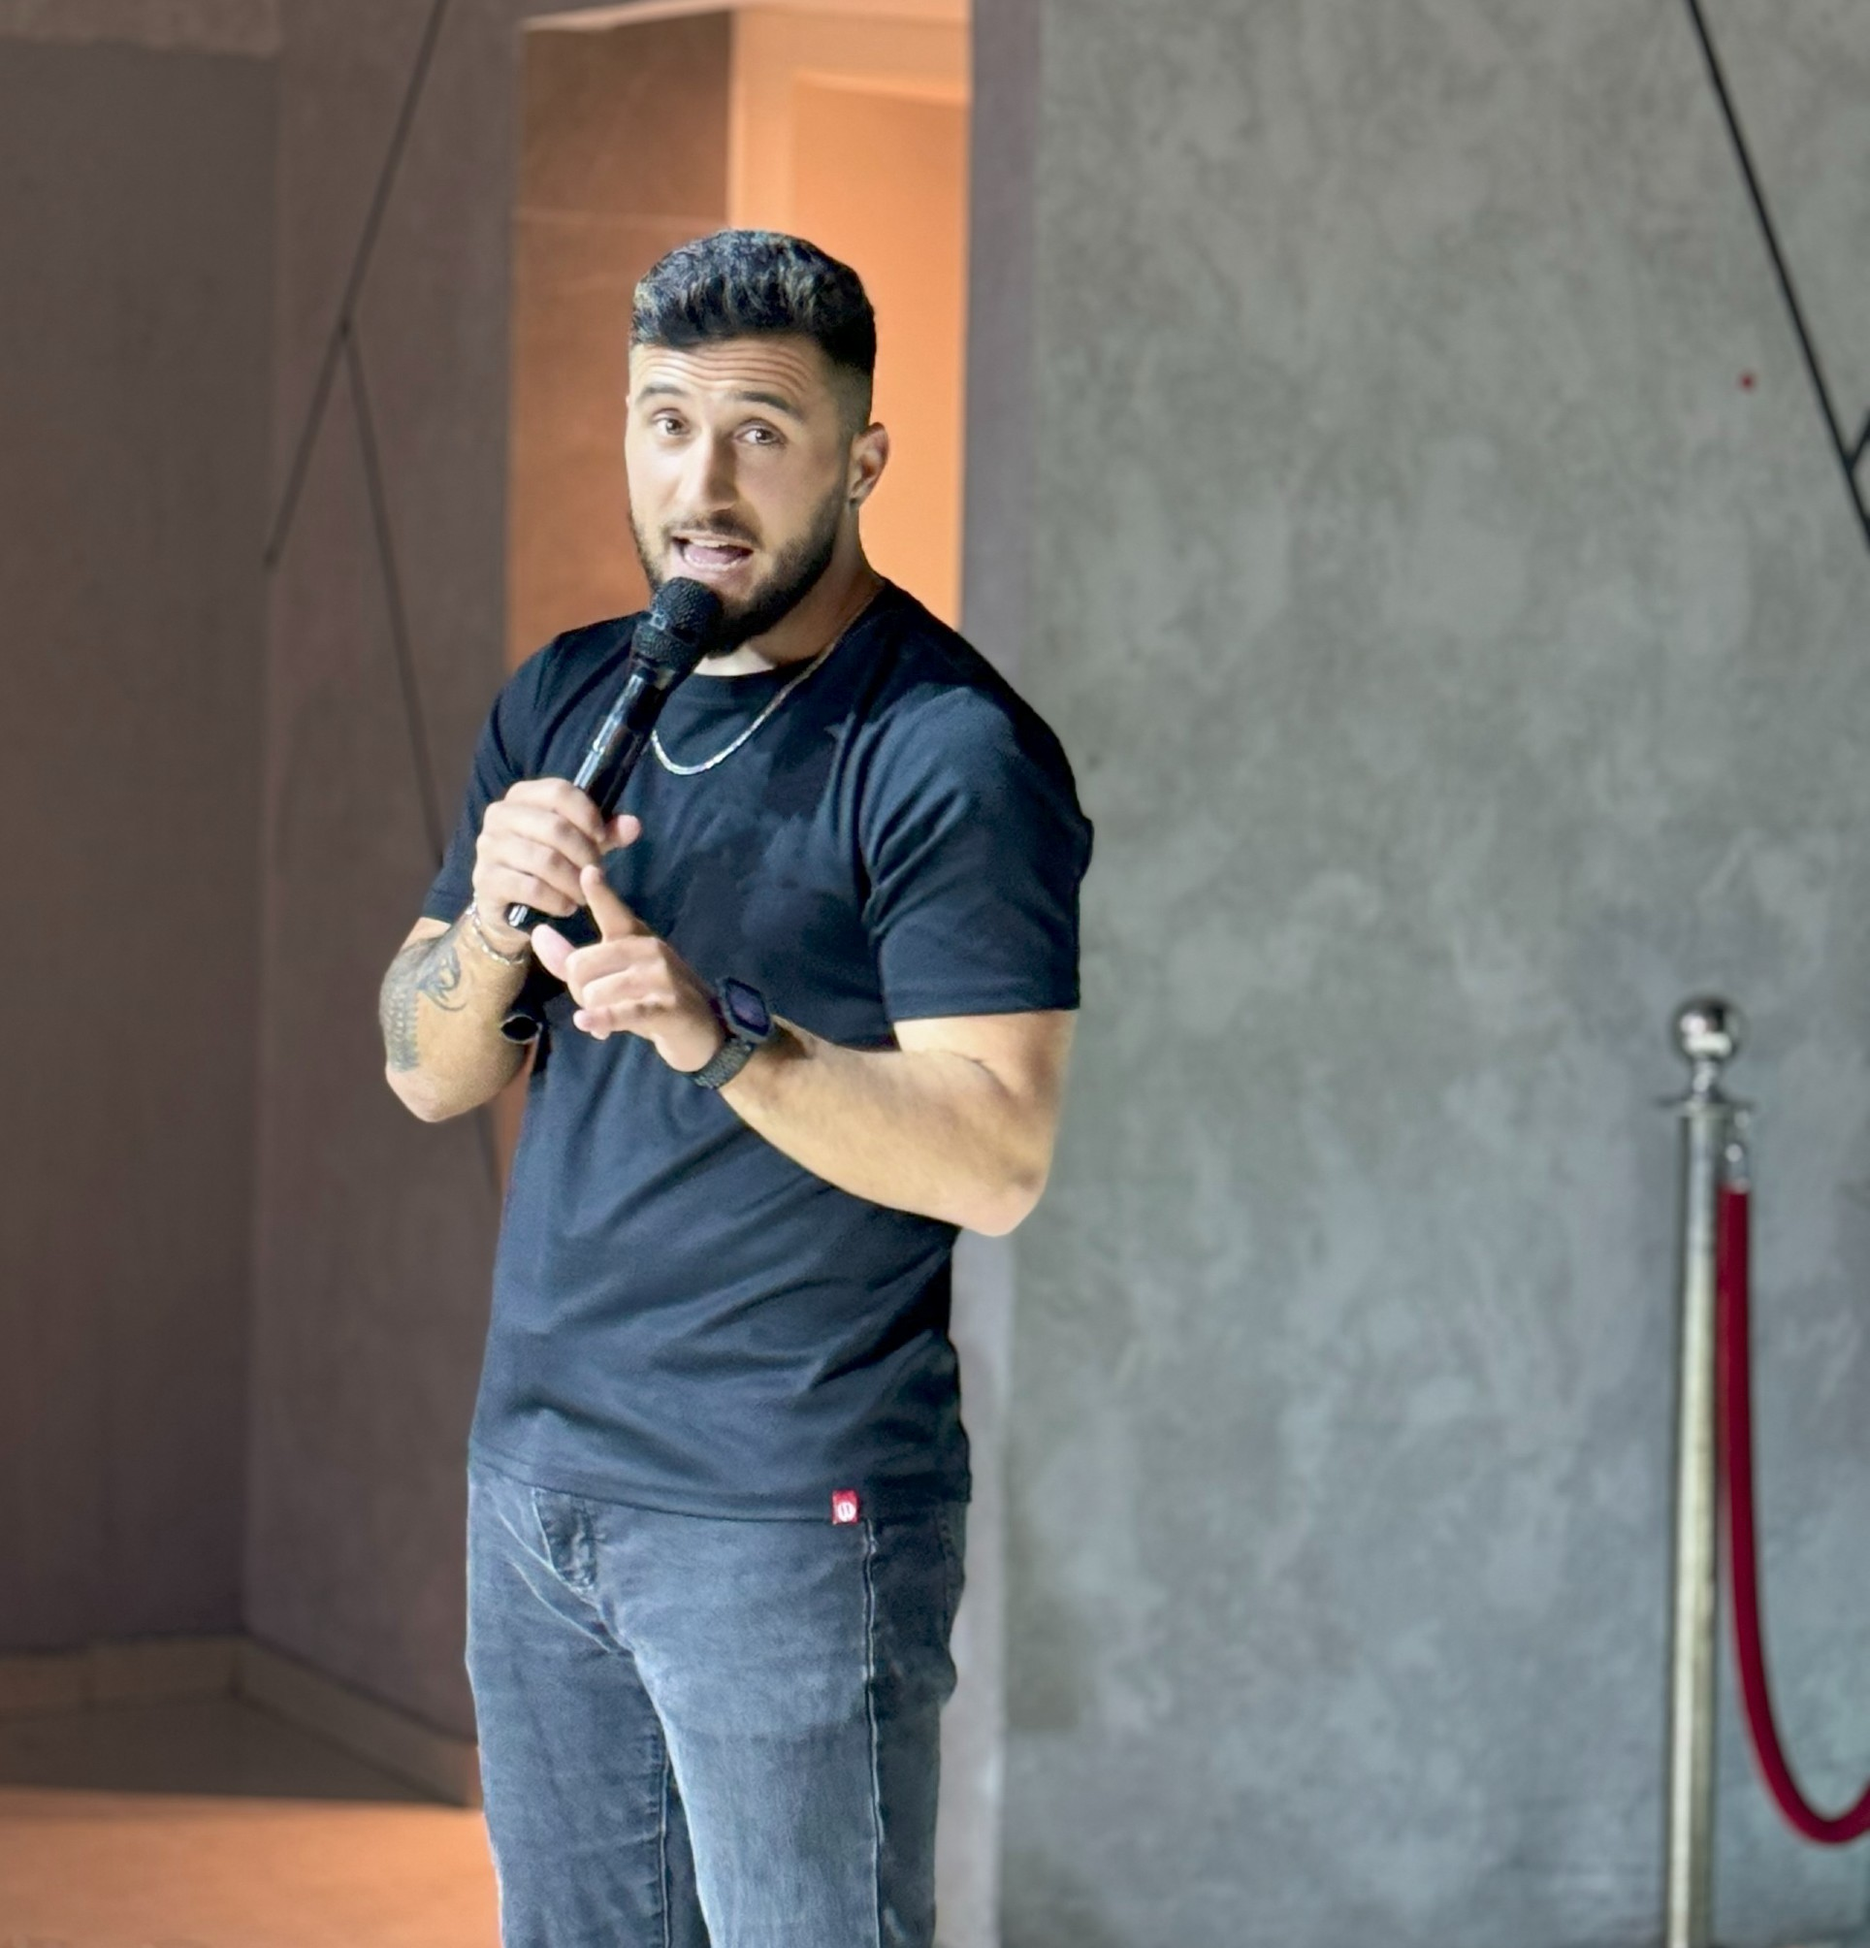
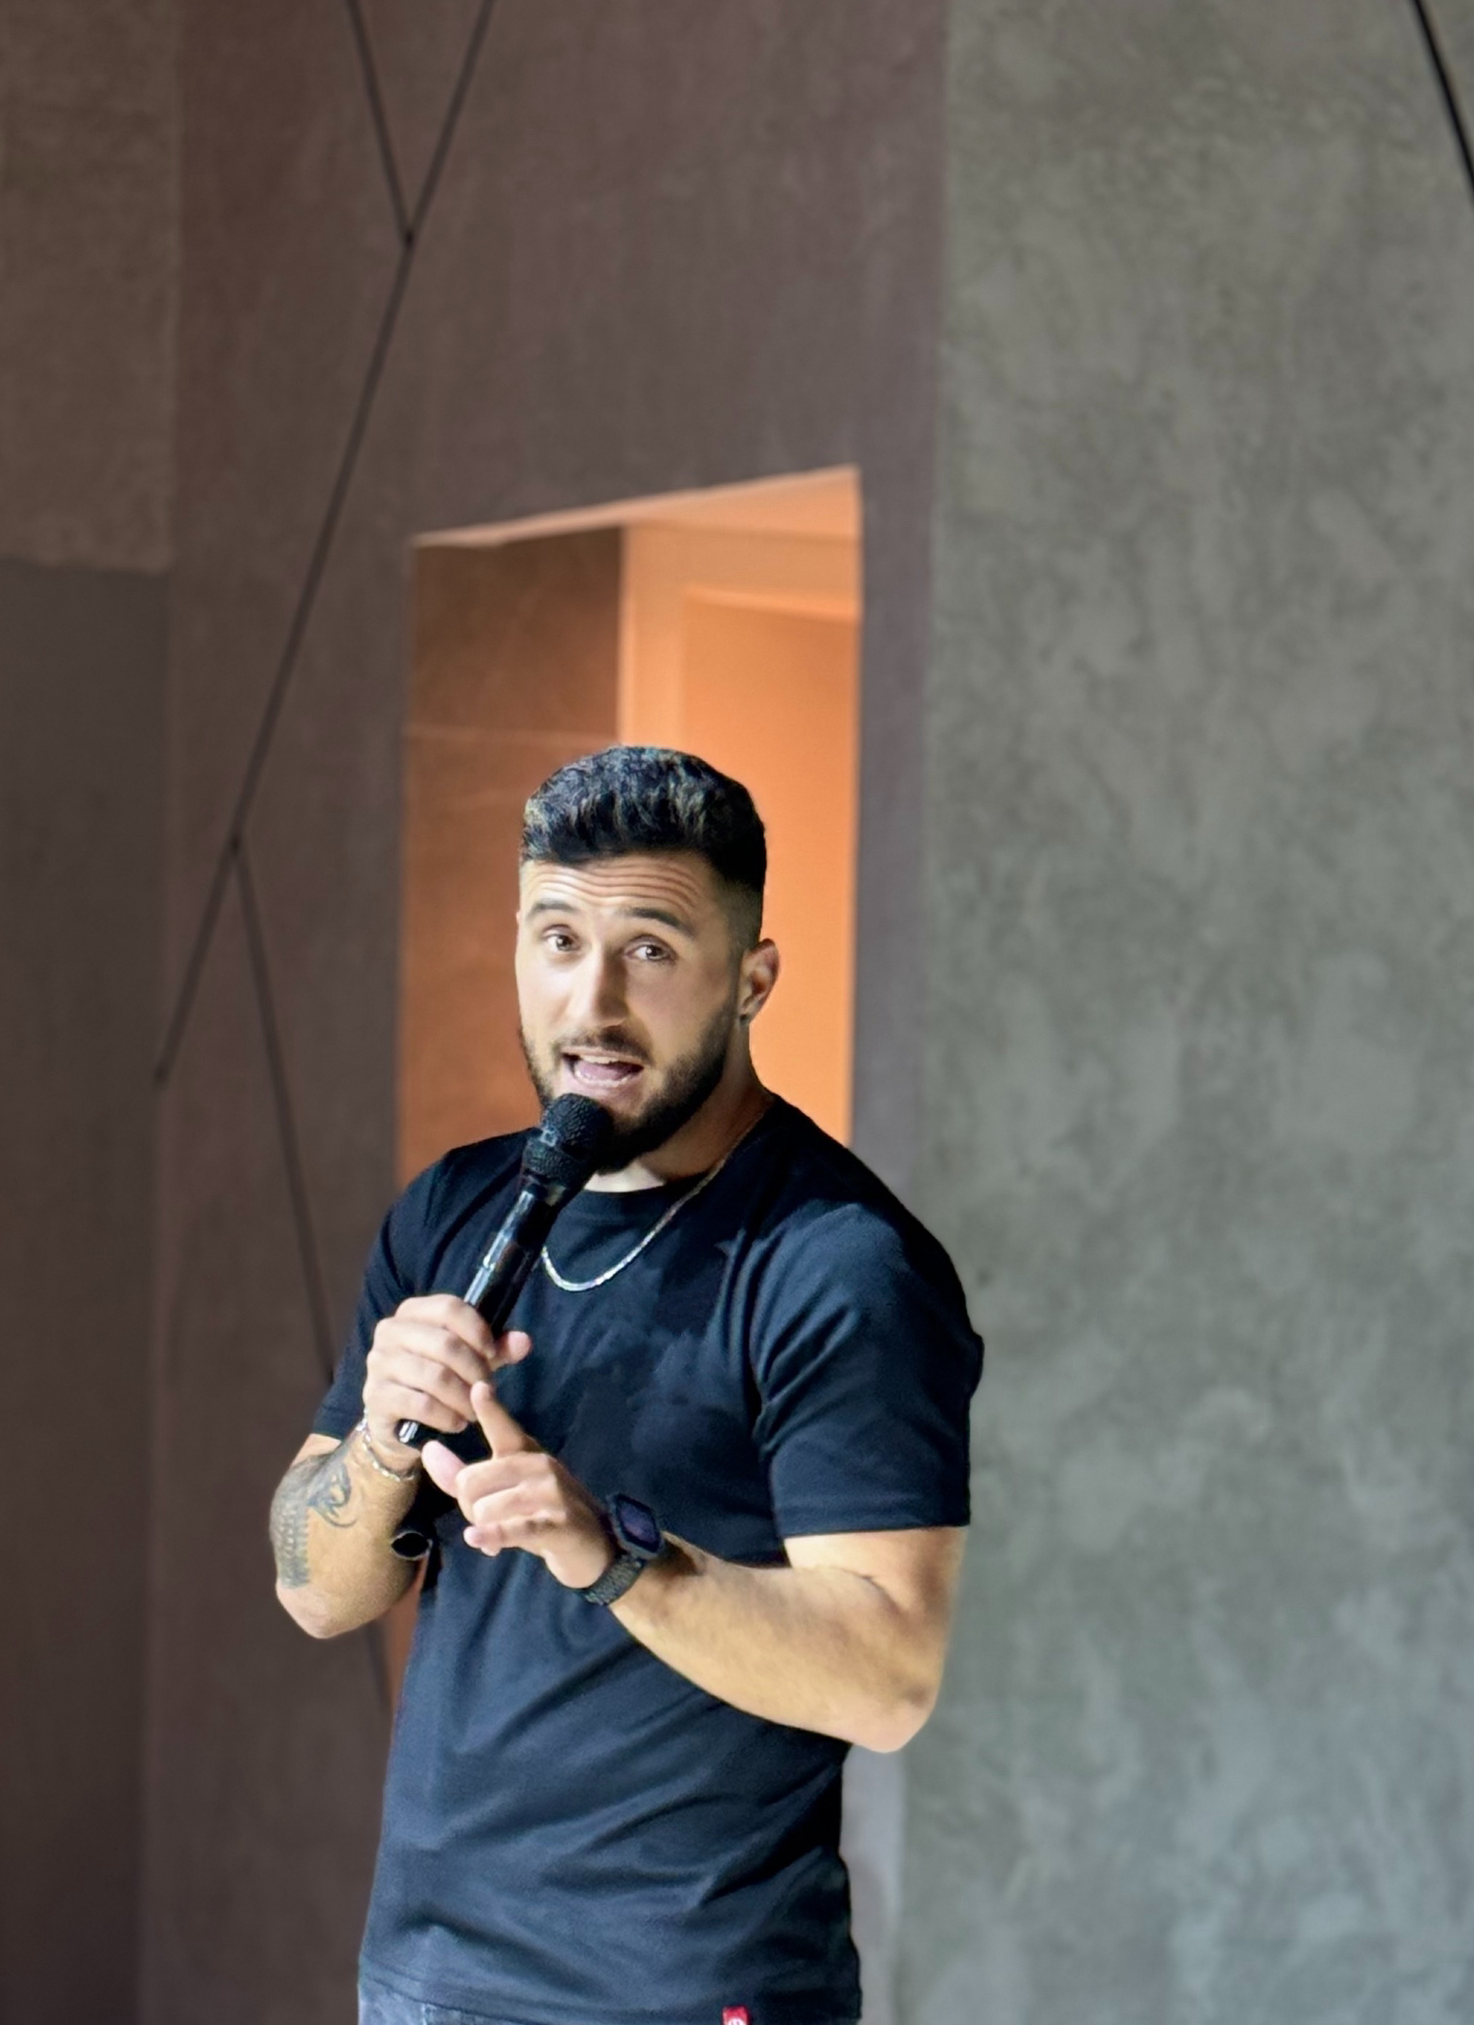
mobile hero: crop original HEIC at full quality, center position

diff --git a/src/components/Hero.jsx b/src/components/Hero.jsx
@@ -65,7 +65,7 @@ export default function Hero() {
           alt=""
           aria-hidden="true"
           className="w-full h-full object-cover hero-bg-img block sm:hidden"
-          style={{ objectPosition: '80% 40%' }}
+          style={{ objectPosition: 'center 10%' }}
         />
       </motion.div>
 
